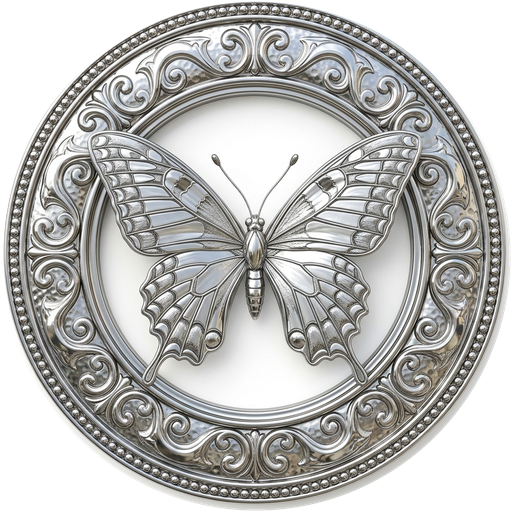
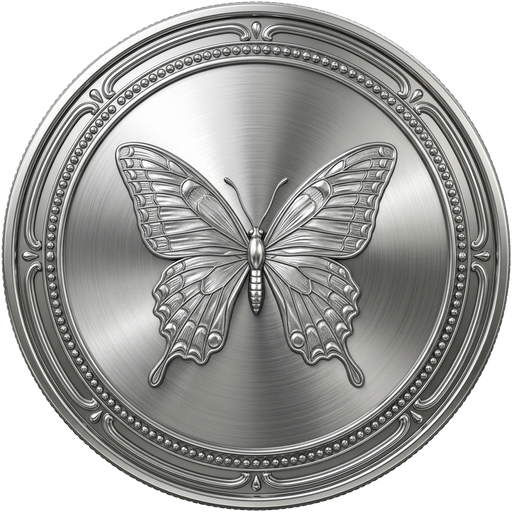
feat: 画面の呼び名を「メダル」に統一、銀の画像2枚を差し替え
統括の指摘「ステッカーという表現はあまり馴染みがないような」。調べると
子どもの画面は「シール」、大人の画面は「ステッカー」で混在しており、
同じ画面に両方出ている箇所もあった（棚の区分は「シール」なのに、その下
のリンクは「ステッカーを買いに行く」）。

本部長が「シール」への統一を提案したところ統括より「シールよりも高級感
がある表現はあるか？」との問いがあり、候補を比較して「メダル」で確定。
画像がメダルそのものであり絵と言葉が一致すること、銅銀金虹がそのまま
序列として読めること、子どもも読めることが理由。却下: コイン（お金と
紛らわしい）・記章勲章（子どもが読めない）・エンブレム（伝わりにくい）・
トロフィー（形が違う）。

DBの表・列・関数名・sticker_key・コードの識別子・ファイル名・コメントは
変更していない。画面に出る文字列とDBのエラーメッセージのみ。

開発部が本部長の指示漏れを1件発見（バッジ名の「ステッカー5こ」「シール
5こ」が対象リストから漏れていた）。

あわせて統括が差し替えた銀のちょうちょ・銀の花を、他と同じ2解像度
（512px/128px）へ整えて反映。24枚・6.3MB。

照査スイート46件PASS、S1/S3/S4いずれも不変。

diff --git a/src/components/CollectorShelfPanel.tsx b/src/components/CollectorShelfPanel.tsx
@@ -3,6 +3,10 @@
  * 参照: 要件定義書07-13-3章、主要画面ワイヤーフレーム.md 21.0節決定6・21.6節・
  * 32.0a節（決定19〜25）・32.2a節。
  *
+ * [2026-09-07改訂・本部長／実装メモ152章] 画面に出す呼び名は「メダル」に統一した
+ * （統括判断）。コンポーネント名・DBの`sticker_key`・本コメントの「シール」
+ * 「ステッカー」はそのまま変更していない。
+ *
  * [2026-09-08全面改訂・統括フィードバック（本部長経由）・32.0a節/32.2a節]
  * 「区画3：自分のステッカー」という独立タブは廃止し、タブは「集めたもの」
  * 「過去の木」の2つに戻した（決定19）。「集めたもの」タブの中にメンバー選択
@@ -745,7 +749,9 @@ function StickerShelfSection({
 
   return (
     <View>
-      <Text style={[captionStyle, styles.legendHeading]}>シール</Text>
+      {/* [2026-09-07改訂・本部長／実装メモ152章] 呼び名を「メダル」に統一（統括判断）。
+          DBの`sticker_key`・コンポーネント名・コメント中の「シール」「ステッカー」は変更しない。 */}
+      <Text style={[captionStyle, styles.legendHeading]}>メダル</Text>
 
       {loadState === "loading" && <SkeletonList count={2} />}
       {loadState === "error" && (
@@ -756,9 +762,9 @@ function StickerShelfSection({
         <>
           {isViewingSelf ? (
             <>
-              <Text style={bodyStyle}>{isChild ? "まだ シールを もっていないよ。かってみよう→" : "まだステッカーを購入していません。購入する→"}</Text>
+              <Text style={bodyStyle}>{isChild ? "まだ メダルを もっていないよ。かってみよう→" : "まだメダルを購入していません。購入する→"}</Text>
               <AppButton
-                label={isChild ? "シールを かいに いく →" : "購入する →"}
+                label={isChild ? "メダルを かいに いく →" : "購入する →"}
                 tone={tone}
                 onPress={onGoToShop}
                 style={{ marginTop: theme.spacing.s3 }}
@@ -800,7 +806,7 @@ function StickerShelfSection({
           {isViewingSelf && (
             <Pressable onPress={onGoToShop} style={{ marginTop: theme.spacing.s3 }}>
               <Text style={[bodyStyle, { color: theme.colors.brandPrimaryStrong }]}>
-                {isChild ? "→ シールを かいに いく" : "→ ステッカーを買いに行く"}
+                {isChild ? "→ メダルを かいに いく" : "→ メダルを買いに行く"}
               </Text>
             </Pressable>
           )}

diff --git a/src/components/StickerShopPanel.tsx b/src/components/StickerShopPanel.tsx
@@ -12,6 +12,10 @@
  * つき1人あたり月1枚」だった（決定15の読み取り誤りの訂正）。そのためグリッド
  * 全体を止める旧`monthlyLimitReached`は廃止し、今月すでに購入した種類だけを
  * 個別に非活性化する（開発部/成果物/実装メモ.md 143章）。
+ *
+ * [2026-09-07改訂・本部長／実装メモ152章] 画面に出す呼び名は「メダル」に統一した
+ * （統括判断）。DBの`sticker_key`・本コンポーネント名・コメント中の「シール」
+ * 「ステッカー」はそのまま変更していない。
  */
 import React, { useState } from "react";
 import { Modal, Pressable, StyleSheet, Text, View } from "react-native";
@@ -109,7 +113,7 @@ export function StickerShopPanel({
   return (
     <View>
       <View style={styles.headerRow}>
-        <Text style={bodyMediumStyle}>{isChild ? "シールを かう" : "ステッカーを買う"}</Text>
+        <Text style={bodyMediumStyle}>{isChild ? "メダルを かう" : "メダルを買う"}</Text>
         <Text style={bodyMediumStyle}>🌟{balance}pt</Text>
       </View>
 
@@ -119,7 +123,7 @@ export function StickerShopPanel({
           （下記）と、該当するセルだけの個別表示（購入済みの種類のみ非活性・
           「かったよ／購入済み」表示）に置き換える。 */}
       <Text style={[captionStyle, styles.ruleNote]}>
-        {isChild ? "おなじ シールは 1かげつに 1まいまで かえるよ" : "同じ種類は1人あたり月1枚まで購入できます"}
+        {isChild ? "おなじ メダルは 1かげつに 1まいまで かえるよ" : "同じ種類は1人あたり月1枚まで購入できます"}
       </Text>
 
       <View style={{ marginTop: theme.spacing.s4, gap: theme.spacing.s4 }}>

diff --git a/app/child/(tabs)/rewards.tsx b/app/child/(tabs)/rewards.tsx
@@ -39,9 +39,9 @@ export default function ChildRewardsScreen() {
           シール購入画面（C30）への導線を追加した。既存のコレクションだな経由の導線
           （じぶんのシールタブのみ表示）はそのまま残す（判断の理由は実装メモ参照）。 */}
       <Pressable onPress={() => router.push("/child/sticker-shop")} style={styles.stickerLink} hitSlop={8}>
-        <Text style={theme.typography.childBody}>🧩 シールを かいに いく →</Text>
+        <Text style={theme.typography.childBody}>🧩 メダルを かいに いく →</Text>
         <Text style={[theme.typography.parentCaption, { marginTop: theme.spacing.s1 }]}>
-          ためた ぽいんとで、きに かざる シールが かえるよ
+          ためた ぽいんとで、きに かざる メダルが かえるよ
         </Text>
       </Pressable>
 

diff --git a/app/supporter/rewards.tsx b/app/supporter/rewards.tsx
@@ -163,9 +163,9 @@ export default function SupporterRewardsScreen() {
           （自分のステッカータブのみ表示）はそのまま残す（判断の理由は実装メモ参照）。 */}
       <Pressable onPress={() => router.push("/supporter/sticker-shop")} style={{ marginTop: theme.spacing.s6 }} hitSlop={8}>
         <Card tone="supporter">
-          <Text style={theme.typography.supporterBodyMedium}>🧩 ステッカーを買いに行く →</Text>
+          <Text style={theme.typography.supporterBodyMedium}>🧩 メダルを買いに行く →</Text>
           <Text style={[theme.typography.supporterCaption, { marginTop: theme.spacing.s1 }]}>
-            貯めたポイントで、木を飾るステッカーを買えます。
+            貯めたポイントで、木を飾るメダルを買えます。
           </Text>
         </Card>
       </Pressable>

diff --git a/src/components/StickerIcon.tsx b/src/components/StickerIcon.tsx
@@ -2,6 +2,10 @@
  * 木を飾るステッカー（要件定義書07-19-9a章「決定12」）の絵柄表示。
  * 参照: デザイントークン.md 1.11節、主要画面ワイヤーフレーム.md 32.0節決定2・決定3。
  *
+ * [2026-09-07改訂・本部長／実装メモ152章] 画面に出す呼び名は「メダル」に統一した
+ * （統括判断）。コンポーネント名・DBの`sticker_key`・本コメントの「シール」
+ * 「ステッカー」はそのまま変更していない。
+ *
  * [2026-09-10改訂・実装メモ149章] 従来は`react-native-svg`による自前描画
  * （形とレアリティのグラデーションをコードで組み立てる方式）だったが、統括提供の
  * 完成画像（`assets/stickers/`、12種×2解像度）へ差し替えた。理由・変更点は

diff --git a/src/components/TreeStickerDragCanvas.tsx b/src/components/TreeStickerDragCanvas.tsx
@@ -3,6 +3,10 @@
  * 32.3節「木にステッカーを飾る」・スキーマ設計.sql 49章）本体の3ロール共通
  * コンポーネント。
  *
+ * [2026-09-07改訂・本部長／実装メモ152章] 画面に出す呼び名は「メダル」に統一した
+ * （統括判断）。コンポーネント名・DBの`sticker_key`・本コメントの「シール」
+ * 「ステッカー」はそのまま変更していない。
+ *
  * 統括要望「ステッカーは自分の好きなところに貼りたい」（2026-09-07）を受け、
  * ステッカーの木への配置は「本人の色丸1つと交換する」（`TreeDecoratePanel`が
  * 担っていた方式）から「木の上の任意の座標へ自由配置する」方式に変わった

diff --git a/src/theme/theme.ts b/src/theme/theme.ts
@@ -369,7 +369,7 @@ export const badgeDefinitions: readonly {
   { key: "lifetime_completions", emoji: "✅", nameParent: "がんばり50回", nameChild: "がんばり50かい" },
   { key: "lifetime_drawings", emoji: "✏", nameParent: "えかき10まい", nameChild: "えかき10まい" },
   { key: "lifetime_gacha_draws", emoji: "🔍", nameParent: "ひみつはっけん10かい", nameChild: "ひみつはっけん10かい" },
-  { key: "lifetime_sticker_purchases", emoji: "🏷", nameParent: "ステッカー5こ", nameChild: "シール5こ" },
+  { key: "lifetime_sticker_purchases", emoji: "🏷", nameParent: "メダル5こ", nameChild: "メダル5こ" },
 ] as const;
 
 /**

diff --git a/app/parent/my-rewards.tsx b/app/parent/my-rewards.tsx
@@ -128,9 +128,9 @@ export default function ParentMyRewardsScreen() {
         hitSlop={8}
       >
         <Card>
-          <Text style={theme.typography.parentBodyMedium}>🧩 ステッカーを買いに行く →</Text>
+          <Text style={theme.typography.parentBodyMedium}>🧩 メダルを買いに行く →</Text>
           <Text style={[theme.typography.parentCaption, { marginTop: theme.spacing.s1 }]}>
-            貯めたポイントで、木を飾るステッカーを買えます。
+            貯めたポイントで、木を飾るメダルを買えます。
           </Text>
         </Card>
       </Pressable>

diff --git a/app/child/tree-decorate.tsx b/app/child/tree-decorate.tsx
@@ -109,7 +109,7 @@ export default function ChildTreeDecorateScreen() {
         <Text style={theme.typography.childBody}>← もどる</Text>
       </Pressable>
       <Text style={[theme.typography.childHeadline, { marginTop: theme.spacing.s3, textAlign: "center" }]}>
-        {moveDecorationId ? "シールを うごかす" : purchaseId ? "シールを かざる" : "きに かざる"}
+        {moveDecorationId ? "メダルを うごかす" : purchaseId ? "メダルを かざる" : "きに かざる"}
       </Text>
 
       {isStickerMode ? (

diff --git a/app/supporter/tree-decorate.tsx b/app/supporter/tree-decorate.tsx
@@ -98,7 +98,7 @@ export default function SupporterTreeDecorateScreen() {
         <Text style={theme.typography.supporterBody}>← もどる</Text>
       </Pressable>
       <Text style={[theme.typography.supporterTitle, { marginTop: theme.spacing.s3, textAlign: "center" }]}>
-        {moveDecorationId ? "ステッカーを動かす" : purchaseId ? "ステッカーを飾る" : "木に飾る"}
+        {moveDecorationId ? "メダルを動かす" : purchaseId ? "メダルを飾る" : "木に飾る"}
       </Text>
 
       {isStickerMode ? (

diff --git a/app/parent/tree-decorate.tsx b/app/parent/tree-decorate.tsx
@@ -106,7 +106,7 @@ export default function ParentTreeDecorateScreen() {
         <Text style={theme.typography.parentBody}>← もどる</Text>
       </Pressable>
       <Text style={[theme.typography.parentTitle, { marginTop: theme.spacing.s3, textAlign: "center" }]}>
-        {moveDecorationId ? "ステッカーを動かす" : purchaseId ? "ステッカーを飾る" : "木に飾る"}
+        {moveDecorationId ? "メダルを動かす" : purchaseId ? "メダルを飾る" : "木に飾る"}
       </Text>
 
       {isStickerMode ? (

diff --git a/app/child/sticker-shop.tsx b/app/child/sticker-shop.tsx
@@ -44,7 +44,7 @@ export default function ChildStickerShopScreen() {
       return;
     }
     const item = catalog.find((c) => c.id === catalogId);
-    setSnackbar(`⭐ ${item?.display_name ?? "シール"}を てにいれたよ！コレクターだなに しまってあるよ`);
+    setSnackbar(`⭐ ${item?.display_name ?? "メダル"}を てにいれたよ！コレクターだなに しまってあるよ`);
     void reloadPurchased();
     setTimeout(() => {
       setSnackbar(null);
